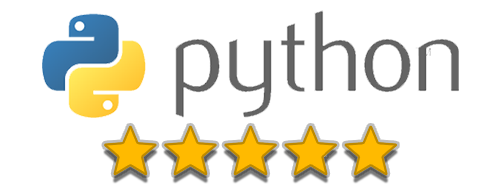
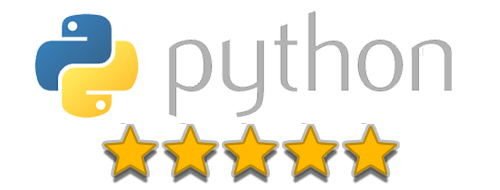
layout tweaks

diff --git a/index.html b/index.html
@@ -121,10 +121,10 @@
             <p><b><i>Bespoke data analysis</i></b></p>
             <p>With a PhD in Geology and 15 years of programming experience. I can leverage my domain knowledge and technical skills to help
               integrate diverse geoscience data and crack tough analysis problems. </p><br/><p>
-              <image class="mousepop" alt="Python" src="img/soft/python.png" style="max-width:150px"></image>
-              <image class="mousepop" alt="R" src="img/soft/R.png" style="max-width:150px"></image>
-              <image class="mousepop" alt="C++" src="img/soft/c.png" style="max-width:150px"></image>
-            <image class="mousepop" alt="Java" src="img/soft/java.png" style="max-width:150px"></image></p>
+              <image class="softicon mousepop" alt="Python" src="img/soft/python.png"></image>
+              <image class="softicon mousepop" alt="R" src="img/soft/R.png"></image>
+              <image class="softicon mousepop" alt="C++" src="img/soft/c.png"></image>
+            <image class="softicon mousepop" alt="Java" src="img/soft/java.png"></image></p>
             </div></div>
 
             <div class="swiper-slide centerbox">
@@ -144,10 +144,10 @@
                 <p><b><i>Data visualisation</i></b></p>
                 <p>Visualising multi-dimensional datasets is difficult but rewarding. I can use my graphics programming knowledge to design and build
                   aesthetic visualisations that identify and communicate otherwise subtle information. </p><br/><p>
-                  <image class="mousepop" alt="Blender" src="img/soft/blender.png" style="max-width:150px"></image>
-                  <image class="mousepop" alt="CloudCompare" src="img/soft/cc.png" style="max-width:150px"></image>
-                  <image class="mousepop" alt="OpenGL" src="img/soft/ogl.png" style="max-width:150px"></image>
-                  <image class="mousepop" alt="Matplotlib" src="img/soft/mpl.png" style="max-width:150px"></image></p>
+                  <image class="softicon mousepop" alt="Blender" src="img/soft/blender.png"></image>
+                  <image class="softicon mousepop" alt="CloudCompare" src="img/soft/cc.png"></image>
+                  <image class="softicon mousepop" alt="OpenGL" src="img/soft/ogl.png"></image>
+                  <image class="softicon mousepop" alt="Matplotlib" src="img/soft/mpl.png"></image></p>
               </div>
             </div>
 
@@ -156,10 +156,10 @@
                 <p><b><i>GIS analysis and development</i></b></p>
                 <p>Mapping and GIS form an important part of all geosciences. I have extensive experience working with various GIS platforms, including
                 the development of plugins for QGIS and ArcGIS. </p><br/><p>
-                <image class="mousepop" alt="Blender" src="img/soft/qgis.png" style="max-width:150px"></image>
-                <image class="mousepop" alt="CloudCompare" src="img/soft/gdal.png" style="max-width:150px"></image>
-                <image class="mousepop" alt="OpenGL" src="img/soft/gpd.png" style="max-width:150px"></image>
-                <image class="mousepop" alt="Matplotlib" src="img/soft/arcgis.png" style="max-width:150px"></image></p>
+                <image class="softicon mousepop" alt="Blender" src="img/soft/qgis.png"></image>
+                <image class="softicon mousepop" alt="CloudCompare" src="img/soft/gdal.png"></image>
+                <image class="softicon mousepop" alt="OpenGL" src="img/soft/gpd.png"></image>
+                <image class="softicon mousepop" alt="Matplotlib" src="img/soft/arcgis.png"></image></p>
               </div>
             </div>
           </div>

diff --git a/style.css b/style.css
@@ -70,7 +70,12 @@ html,
       top: 50%;
       transform: translateY(-50%);
     }
-
+    .softicon{
+      /*max-height: 150px;*/
+      max-width: min(150px, 20%);
+      /*padding-top: 15px;
+      padding-bottom: 15px;*/
+    }
     .centerbox {
       width: 100%;
       height: 100%; /*88%;*/
